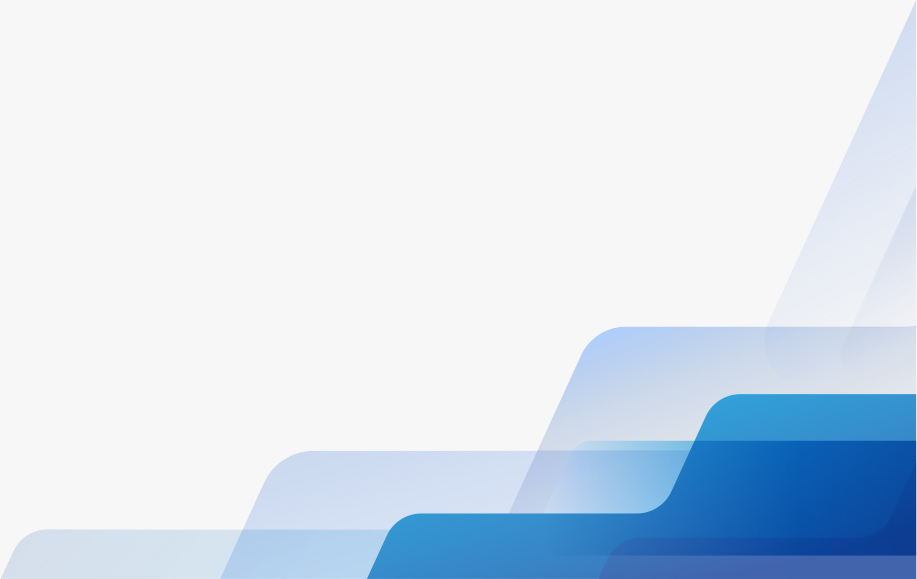
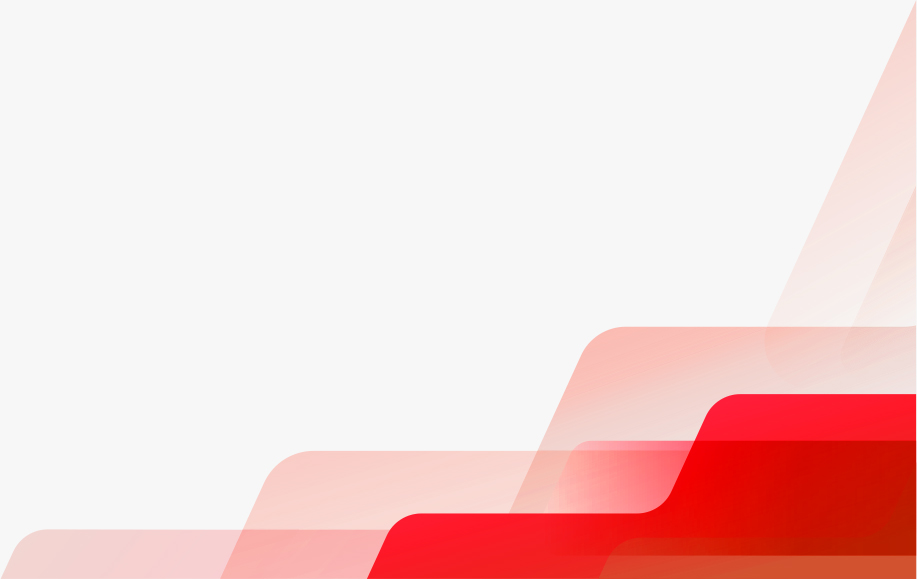
change color

Changed region(s): [[0.0, 0.5596, 1.0, 1.0], [0.916, 0.0, 1.0, 0.3109], [0.9466, 0.342, 1.0, 0.4352]]

diff --git a/assets/css/style.css b/assets/css/style.css
@@ -74,10 +74,10 @@ img:hover {
 }
 
 :root {
-  --primary-color-: rgba(4, 28, 72, 1);
-  --hover-color-: rgb(243, 219, 73);
-  --hover-rgba-: rgba(243, 219, 73, 0.7);
-  --border-color-: rgba(29, 46, 100, 0.5);
+  --primary-color-: rgb(255, 11, 11);
+  --hover-color-: rgb(255, 221, 0);
+  --hover-rgba-: rgba(255, 222, 4, 0.7);
+  --border-color-: rgba(105, 27, 27, 0.5);
 }
 
 @media screen and (max-width: 960px) {

diff --git a/components/Header/style.module.scss b/components/Header/style.module.scss
@@ -57,7 +57,7 @@
   background-image: linear-gradient(
     to bottom,
     var(--primary-color-),
-    rgba(0, 85, 138, 0.6)
+    rgba(186, 35, 35, 0.45)
   );
   padding-bottom: 2px;
 
@@ -122,7 +122,7 @@
     background-image: linear-gradient(
       to bottom,
       var(--primary-color-),
-      rgba(0, 85, 138, 0.6)
+      rgba(255, 25, 25, 0.4)
     );
     .headerNovaland {
       padding-top: 2px;

diff --git a/components/introduce/test/test.module.scss b/components/introduce/test/test.module.scss
@@ -124,7 +124,7 @@
     }
   }
   .section {
-    background: rgba(0, 85, 138);
+    background: rgba(255, 25, 25);
     .image {
       opacity: 0.5;
       position: relative;
@@ -147,7 +147,7 @@
       }
     }
     .section {
-      background: rgba(0, 85, 138);
+      background: rgba(255, 25, 25);
       .image {
         opacity: 0.5;
         position: relative;

diff --git a/components/introduce/Ban-lanh-dao/page5edit.module.scss b/components/introduce/Ban-lanh-dao/page5edit.module.scss
@@ -105,8 +105,8 @@
             position: absolute;
             background: linear-gradient(
               to top,
-              rgba(0, 85, 138, 1),
-              rgba(0, 85, 138, 0.6),
+              rgba(255, 25, 25, 1),
+              rgba(255, 25, 25, 0.4),
               transparent
             );
             bottom: 0;

diff --git a/components/Projects/Card/CardItem.module.scss b/components/Projects/Card/CardItem.module.scss
@@ -15,8 +15,8 @@ $OpensSans: 'Opens sans', sans-serif;
     position: absolute;
     background: linear-gradient(
       to top,
-      rgba(0, 85, 138, 1),
-      rgba(0, 85, 138, 0.6),
+      rgba(255, 25, 25, 1),
+      rgba(255, 25, 25, 0.4),
       transparent
     );
     bottom: 0;

diff --git a/components/Banner/Banner.module.scss b/components/Banner/Banner.module.scss
@@ -12,7 +12,7 @@ $OpensSans: 'Opens sans', sans-serif;
       top: 0;
       height: 52vw;
       width: 100%;
-      background-color: rgba(0, 85, 138, 0.5);
+      background-color: rgba(255, 46, 46, 0.311);
       z-index: 2;
     }
   }

diff --git a/components/HomePage/Connective/styles.module.scss b/components/HomePage/Connective/styles.module.scss
@@ -1,5 +1,5 @@
 .connectiveBg {
-  background: url(../../../public/bgFooter/bg1.png);
+  background: url(../../../public/bgFooter/bg1.avif);
   background-repeat: no-repeat;
   background-size: cover;
   width: 100%;

diff --git a/components/News/Banner/Banner.module.scss b/components/News/Banner/Banner.module.scss
@@ -11,7 +11,7 @@
   position: absolute;
   top: 0;
   z-index: 2;
-  background: rgba(0, 85, 138, 0.5);
+  background: rgba(255, 25, 25, 0.311);
 }
 
 @media screen and(max-width: 600px) {

diff --git a/components/Recruitment/Banner/Banner.module.scss b/components/Recruitment/Banner/Banner.module.scss
@@ -11,7 +11,7 @@
   position: absolute;
   top: 0;
   z-index: 2;
-  background: rgba(0, 85, 138, 0.5);
+  background: rgba(255, 25, 25, 0.311);
 }
 
 @media screen and(max-width: 600px) {

diff --git a/components/News/Detail.module.scss b/components/News/Detail.module.scss
@@ -7,7 +7,7 @@
   background-position: center top;
   .cover {
     height: 100%;
-    background: rgba(0, 85, 138, 0.5);
+    background: rgba(255, 25, 25, 0.311);
   }
 }
 .container {

diff --git a/components/introduce/Tamnhin-sumenh/imgPage2.module.scss b/components/introduce/Tamnhin-sumenh/imgPage2.module.scss
@@ -65,7 +65,7 @@
     }
   }
   .section {
-    background: rgba(0, 85, 138);
+    background: rgb(255, 25, 25);
     .image {
       opacity: 0.5;
       position: relative;
